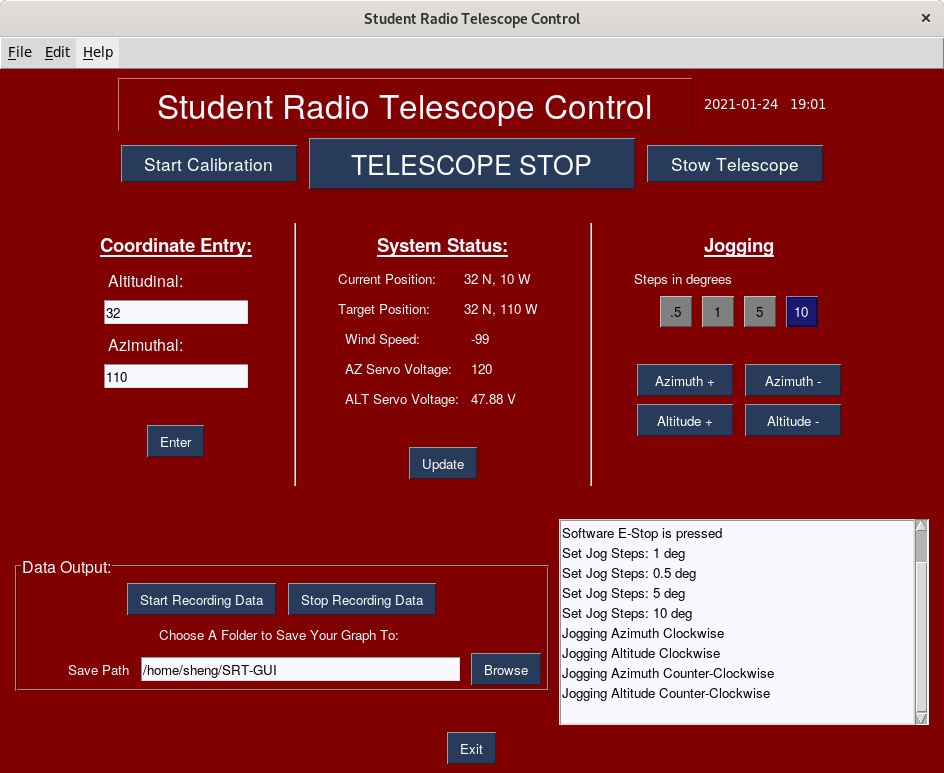
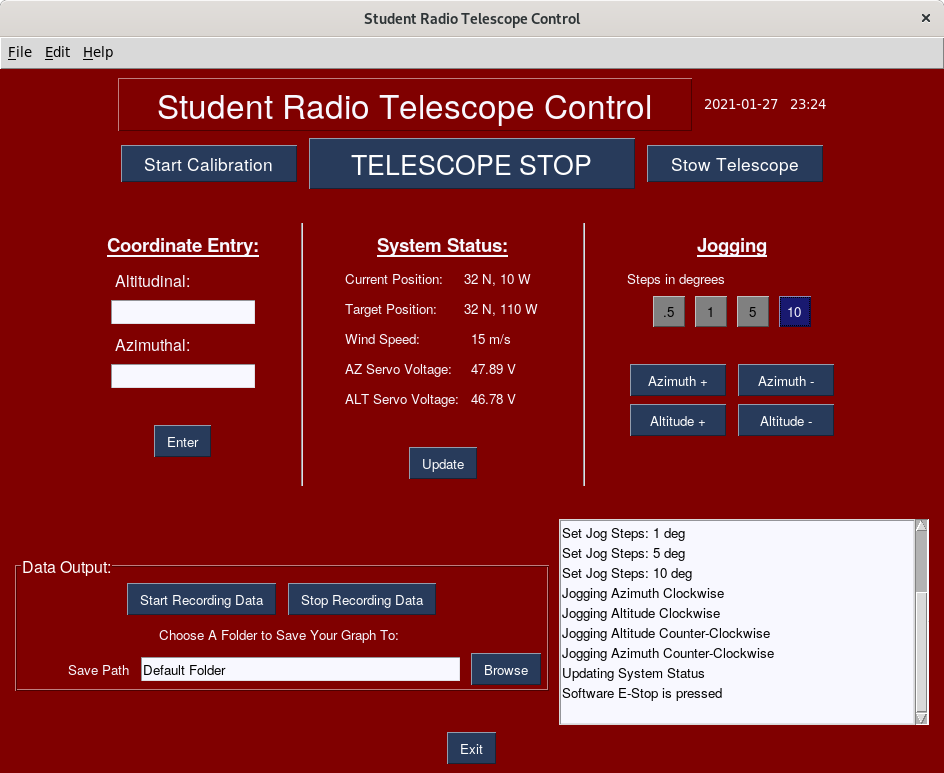
testing TCP sockets Also updated the GUI screenshot

diff --git a/main.py b/main.py
@@ -36,15 +36,15 @@ CoordEntry = [  [sg.T('Coordinate Entry:',font=("Helvetica 14 underline bold"))]
                 [sg.B('Enter')] ]
 
 Parameters = [  [sg.T('System Status:',font=("Helvetica 14 underline bold"))],
-                [sg.T('Current Position:',font=("Helvetica 10"),size=(16,1),justification='l'),
-                    sg.T('32 N, 10 W',size=(12,1),justification='l',key='-POS-CURRENT-')],
-                [sg.T('Target Position:',font=("Helvetica 10"),size=(16,1),justification='l'),
-                    sg.T('59 N, 64 W',size=(12,1),justification='l',key='-POS-TGT-')],
+                [sg.T('Current Position:',font=("Helvetica 10"),size=(15,1),justification='l'),
+                    sg.T('32 N, 10 W',size=(11,1),justification='l',key='-POS-CURRENT-')],
+                [sg.T('Target Position:',font=("Helvetica 10"),size=(15,1),justification='l'),
+                    sg.T('59 N, 64 W',size=(11,1),justification='l',key='-POS-TGT-')],
                 [sg.T('Wind Speed:',font=("Helvetica 10"),size=(16,1),justification='l'), sg.T('30 m/s',size=(10,1),justification='l',key='-WIND-')],
                 [sg.T('AZ Servo Voltage:',font=("Helvetica 10"),size=(16,1),justification='l'),
-                    sg.T('47.23 V',size=(10,0),justification='l',key='_voltAZ_')],
+                    sg.T('48.00 V',size=(10,0),justification='l',key='_voltAZ_')],
                 [sg.T('ALT Servo Voltage:',font=("Helvetica 10"),size=(16,1),justification='l'),
-                    sg.T('47.88 V',size=(10,0),justification='l',key='_voltALT_')],
+                    sg.T('48.00 V',size=(10,0),justification='l',key='_voltALT_')],
                 [sg.T('')],
                 [sg.B('Update',key='-UPDATE-')]
                 ]
@@ -77,7 +77,6 @@ output =    [   [sg.T('Radio Telescope Control Output/Log')],
 layout = [  [sg.Menu(menu_def, tearoff=True)],
             [sg.T('Student Radio Telescope Control',size=(30,1),justification='c',font=("Helvetica 25"),
                 relief=sg.RELIEF_GROOVE),sg.T('',font=("DejaVu 10"),size=(15,1),key='-datetime-')],
-            #[sg.T(" ",font=("Helvetica 3"))],
             [sg.B('Start Calibration',size=(15,1),font=("Helvetica 13"),key='-CALIB-'),
                 sg.B('TELESCOPE STOP',size=(20,1),font=("Helvetica 20"),key='-ESTOP-'),
                 sg.B('Stow Telescope',size=(15,1),font=("Helvetica 13"),key='-STOW-')],
@@ -99,10 +98,10 @@ layout = [  [sg.Menu(menu_def, tearoff=True)],
 # create window
 window = sg.Window('Student Radio Telescope Control', layout, element_justification='c')
 
-WindSpeed = -99
+WindSpeed = 15
 
-_VAZ_ = 120
-_VALT_ = 120
+_VAZ_ = 47.89
+_VALT_ = 46.78
 
 JogStepAZ = 4683
 JogStepALT = 929
@@ -151,14 +150,14 @@ while True:  # Event Loop
         print("Updating System Status")
 
         #WindSpeed = AFE.GetWindRaw(AnalogControl)
-        window['-WIND-'].update(str(WindSpeed))
+        window['-WIND-'].update(str(WindSpeed)+" m/s")
 
         # Update voltge
         #_VAZ_ = mc.GetVoltage(motor_AZ)
         #_VALT_ = mc.GetVoltage(motor_ALT)
 
-        window['_voltAZ_'].update(value=_VAZ_)
-        #window['_voltALT_'].update(value=_VALT_)
+        window['_voltAZ_'].update(str(_VAZ_)+" V")
+        window['_voltALT_'].update(str(_VALT_)+" V")
 
 
     if event == '-STEP1-':

diff --git a/test/tcp_server.py b/test/tcp_server.py
@@ -1,0 +1,21 @@
+#   Simple TCP socket, server side, example
+
+import socket
+
+TCP_IP = '127.0.0.1'
+TCP_PORT = 6507
+BUFFER_SIZE = 20
+
+s = socket.socket(socket.AF_INET, socket.SOCK_STREAM)
+s.bind((TCP_IP, TCP_PORT))
+s.listen(1)
+
+conn, addr = s.accept()
+print('Connection address: ', addr)
+
+while True:
+    data = conn.recv(BUFFER_SIZE)
+    if not data: break
+    print("server: received data: ", data)
+    conn.send(b'data received server')
+conn.close()

diff --git a/test/tcp_client.py b/test/tcp_client.py
@@ -1,0 +1,17 @@
+#   Simple TCP socket, client side, example
+
+import socket
+
+TCP_IP = '127.0.0.1'
+TCP_PORT = 6507
+BUFFER_SIZE = 1024
+
+MESSAGE = "Radio Telescope, Team 21039"
+
+s = socket.socket(socket.AF_INET, socket.SOCK_STREAM)
+s.connect((TCP_IP, TCP_PORT))
+s.send(b'Radio Telescope')
+data = s.recv(BUFFER_SIZE)
+s.close()
+
+print("client: received data: ", data)
